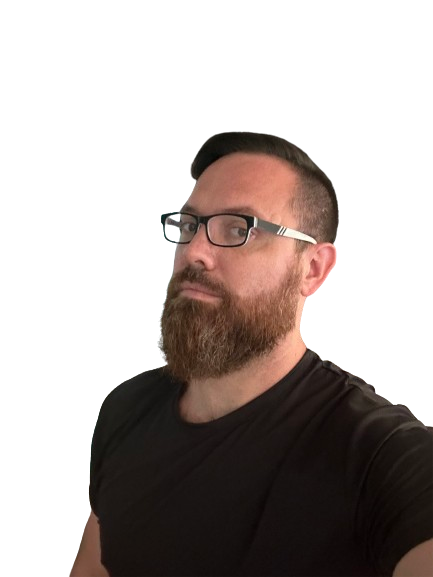
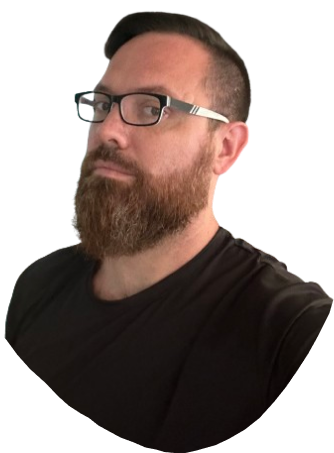
Home component update

diff --git a/portfolio/src/Home.css b/portfolio/src/Home.css
@@ -1,49 +1,146 @@
 /* Home.css - Styles for the Home component */
 
-/* Layout for the entire home container */
-.home-container {
-  display: flex;
-  justify-content: space-between;
+/* Home grid container */
+.homeGrid {
+  display: grid;
+  grid-template-columns: 1fr 1fr;
+  grid-template-rows: 1fr 1fr;
+  min-height: 100vh;
+  gap: 50px;
   align-items: center;
-  padding: 50px;
-  min-height: 100vh; /* Ensures the container expands with content */
+  justify-content: center;
 }
 
-/* Styling for the text section within the home container */
-.home-text {
-  flex: 1; /* Ensures flexibility in layout */
-  max-width: 40%; /* Limits the maximum width to maintain design consistency */
-}
-
-/* Container for the image within the home section */
-.home-image {
-  flex: 1; /* Balances space with the text section */
+/* Styling for the text section in the top-left grid cell */
+.oneOne {
   display: flex;
-  justify-content: center; /* Centers the image horizontally */
+  flex-direction: column;
+  justify-content: center;
+  align-items: flex-start;
+  padding-left: 200px;
 }
 
-/* Responsive image styling */
-.home-image img {
-  max-width: 100%; /* Ensures the image does not exceed its container */
-  height: auto; /* Maintains the aspect ratio of the image */
-  filter: grayscale(100%); /* Greyscale effect for stylistic preference */
+/* Styling for the text in the top-left grid cell */
+.oneOne p {
+  color: #FFFFFF;
+  font-size: 24px;
+  line-height: 1.5;
+  margin: 0;
+  padding: 0;
 }
 
-/* General styling for buttons within the home component */
-button {
-  background-color: #000; /* Black background */
-  color: #F6D26D; /* Gold text for visibility and design consistency */
-  font-family: 'Lalezar', sans-serif; /* Sets Lalezar as the font for the button */
-  font-size: 25px; /* Sets the font size to 25px */
-  line-height: 40px; /* Match the line height with the button's height for vertical centering */
-  padding: 10px 20px; /* Consistent padding with other buttons */
-  border: 2px solid #F6D26D; /* Gold border to match the text color */
-  border-radius: 8px; /* Rounded corners for a smoother look */
-  cursor: pointer; /* Ensures the cursor indicates interactivity */
-  height: 40px; /* Fixed height as specified */
- /* margin: auto; Auto margins for centering in potentially flexible layouts */
-  text-align: center; /* Centers text horizontally inside the button */
-  display: flex; /* Enables flexbox properties */
-  align-items: center; /* Aligns children (text) vertically in the center */
-  justify-content: center; /* Ensures horizontal centering */
+/* Styling for the highlighted name */
+.highlight-name {
+  color: #F6D26D;
+  font-size: 26px;
+}
+
+/* Styling for the button in the top-left grid cell */
+.oneOne button {
+  margin-top: 10px;
+  background-color: #000;
+  color: #F6D26D;
+  font-family: 'Lalezar', sans-serif;
+  font-size: 22px;
+  padding: 4px 24px;
+  border: 2px solid #F6D26D;
+  border-radius: 8px;
+  cursor: pointer;
+  display: flex;
+  align-items: center;
+  justify-content: center;
+}
+
+/* Styling for the image and ellipse in the top-right grid cell */
+.oneTwo {
+  display: flex;
+  justify-content: center;
+  align-items: center;
+  padding-right: 200px;
+}
+
+/* Image container styling */
+.image-container {
+  position: relative;
+  width: 414px; /* Width matching the Ellipse */
+  height: 392.62px; /* Height matching the Ellipse */
+  display: flex;
+  justify-content: center;
+  align-items: center;
+}
+
+/* Ellipse styling */
+.ellipse {
+  position: absolute;
+  width: 100%;
+  height: 100%;
+  padding-top: 95px;
+  padding-right: 28px;
+  z-index: 1;
+}
+
+/* Profile image styling */
+.profile-image {
+  position: relative;
+  z-index: 2;
+  height: auto;
+  object-fit: cover;
+  margin-top: 42px;
+  filter: grayscale(100%);
+}
+
+/* Styling for the image in the bottom-left grid cell */
+.twoOne img {
+  max-width: 100%;
+  height: auto;
+  padding-left: 150px;
+}
+
+/* Styling for the text section in the bottom-right grid cell */
+.twoTwo {
+  display: flex;
+  flex-direction: column;
+  justify-content: center;
+  align-items: flex-start;
+  padding-left: 100px;
+}
+
+.twoTwo p {
+  color: #FFFFFF;
+  font-size: 24px;
+  line-height: 1.5;
+  margin: 0;
+  padding: 0;
+}
+
+
+/* Styling for the button in the top-left grid cell */
+.oneOne button {
+  margin-top: 10px;
+  background-color: #000;
+  color: #F6D26D;
+  font-family: 'Lalezar', sans-serif;
+  font-size: 22px;
+  padding: 4px 24px;
+  border: 2px solid #F6D26D;
+  border-radius: 8px;
+  cursor: pointer;
+  display: flex;
+  align-items: center;
+  justify-content: center;
+}
+
+.twoTwo button {
+  margin-top: 10px;
+  background-color: #000;
+  color: #F6D26D;
+  font-family: 'Lalezar', sans-serif;
+  font-size: 22px;
+  padding: 4px 24px;
+  border: 2px solid #F6D26D;
+  border-radius: 8px;
+  cursor: pointer;
+  display: flex;
+  align-items: center;
+  justify-content: center;
 }

diff --git a/portfolio/src/Home.js b/portfolio/src/Home.js
@@ -1,17 +1,41 @@
 import React from 'react';
 import './Home.css';
-import placeImage from './place.png'; // Import the image here
+import { Link } from 'react-router-dom'; // Import Link from react-router-dom
+import placeImage from './place.png';
+import Ellipse from './Ellipse.svg';
+import project from './project.png';
 
 function Home() {
   return (
-    <div className="home-container">
-      <div className="home-text">
-        <h1>I'm Chris Curcio</h1>
-        <p>Front-end developer and UX/UI designer.</p>
-        <button>Contact</button>
+    <div className="homeGrid">
+      <div className="oneOne">
+        <p>
+          I'm <span className="highlight-name">Chris Curcio</span><br/>
+          Front-end developer and<br />
+          UX/UI designer.
+        </p>
+        {/* Link to Contact Page */}
+        <Link to="/contact">
+          <button>Contact</button>
+        </Link>
       </div>
-      <div className="home-image">
-        <img src={placeImage} alt="Chris Curcio" /> {/* Use the imported image */}
+      <div className="oneTwo">
+        <div className="image-container">
+          <img src={Ellipse} alt="Ellipse Background" className="ellipse" />
+          <img src={placeImage} alt="Chris Curcio" className="profile-image" />
+        </div>
+      </div>
+
+      <div className="twoOne">
+        <img src={project} alt="Project" />
+      </div>
+      <div className="twoTwo">
+        <p>Explore my projects built <br/> with React and JavaScript, <br/>
+          Featuring detailed Figma <br/> UX/UI designs.</p>
+        {/* Link to Projects Page */}
+        <Link to="/projects">
+          <button>Projects</button>
+        </Link>
       </div>
     </div>
   );

diff --git a/portfolio/src/index.css b/portfolio/src/index.css
@@ -49,3 +49,20 @@ a:hover {
     padding: 10px;
   }
 }
+
+h1 {
+  margin: 0; /* Remove default margin */
+  padding: 0; /* Remove default padding */
+  font-size: 36px; /* Set desired font size */
+  line-height: 1.2; /* Set line-height for spacing */
+  color: #F6D26D; /* Set the color if different from default */
+}
+
+/* p Styles */
+p {
+  margin: 0; /* Remove default margin */
+  padding: 0; /* Remove default padding */
+  font-size: 18px; /* Set desired font size */
+  line-height: 1.5; /* Set line-height for spacing */
+  color: #FFFFFF; /* Set the color if different from default */
+}

diff --git a/portfolio/src/Navbar.css b/portfolio/src/Navbar.css
@@ -17,7 +17,8 @@
   display: flex;
   justify-content: space-between;
   align-items: center;
-  padding: 40px 65px;
+  padding: 60px 65px;
+  padding-bottom: 120px;
 }
 
 .navbar-header {
